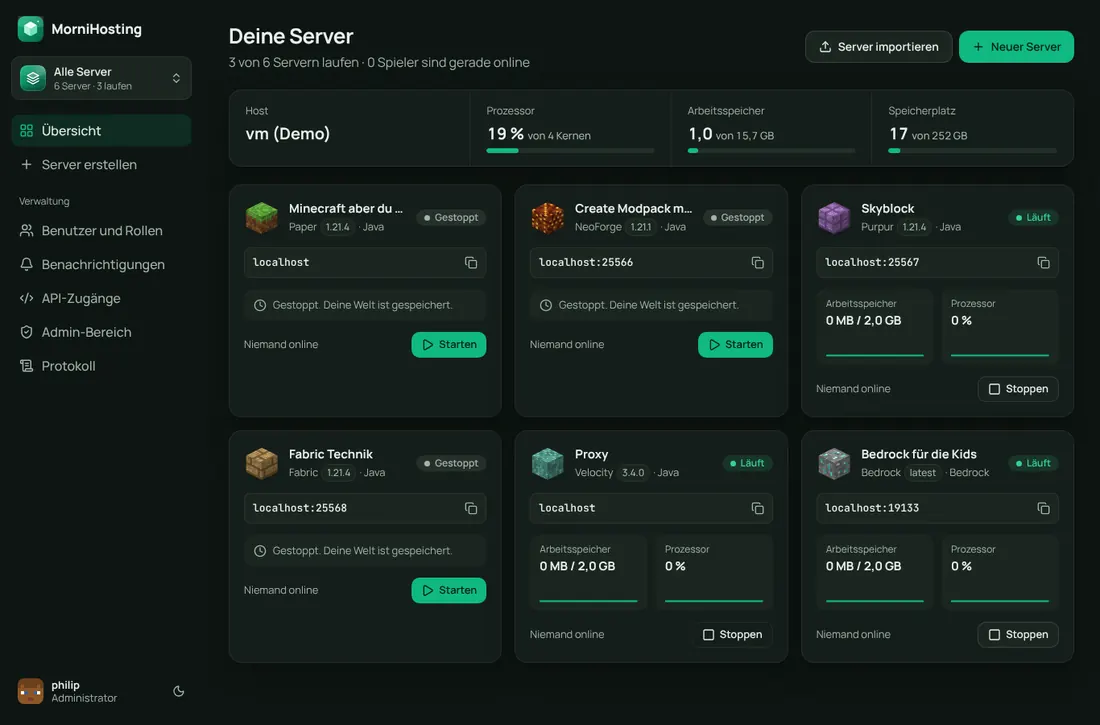
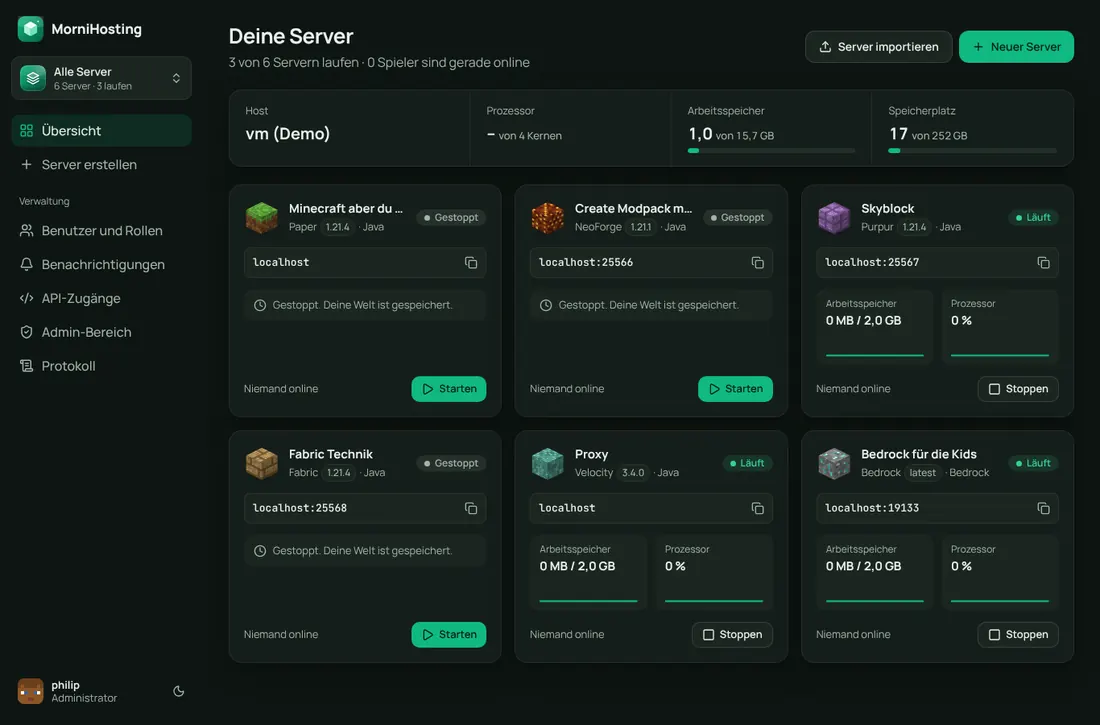
Spielauswahl mit großen Bildkarten, gleich große Symbole, Karten bündig
Die Spiele sind jetzt große Bildkarten mit „Minecraft Java Edition“,
„Minecraft Bedrock Edition“ und „Minecraft Geyser“ (mit Geyser-Logo),
auf der Startseite und bei der Bestellung gleich. Software-Symbole und
Add-on-Bilder haben einheitliche Größen und Kacheln. In der Übersicht
liegt die Fußzeile jeder Server-Karte unten, damit gestoppte und laufende
Server in einer Reihe bündig sind. Im dunklen und hellen Modus geprüft.

Claude-Session: https://claude.ai/code/session_017GS6h1DfXC5pMpvDVvLLt3

Verfasst mit Claude 🤖

diff --git a/apps/web/src/features/servers/create/CreateServerPage.tsx b/apps/web/src/features/servers/create/CreateServerPage.tsx
@@ -34,7 +34,8 @@ import { Field } from '@/components/ui/label';
 import { Checkbox, Skeleton, Slider } from '@/components/ui/misc';
 import { Select, SelectContent, SelectItem, SelectTrigger, SelectValue } from '@/components/ui/select';
 import { Switch } from '@/components/ui/switch';
-import { Badge, Gem, GameScene, type GemTier } from '@/components/art';
+import { Badge, Gem, type GemTier } from '@/components/art';
+import { GameCard } from '@/components/game-card';
 import { blockOf, McBlock } from '@/components/mc-block';
 import { hasProjectLogo, ProjectLogo } from '@/components/project-logo';
 import { api } from '@/lib/api';
@@ -151,26 +152,7 @@ function GamePicker({ onPick }: { onPick: (game: Game) => void }): ReactElement 
       </div>
       <div className="grid gap-4 sm:grid-cols-3">
         {GAMES.map((g) => (
-          <button
-            key={g}
-            type="button"
-            onClick={() => onPick(g)}
-            className="group grid overflow-hidden rounded-[16px] border border-border bg-card text-left transition hover:-translate-y-0.5 hover:border-primary hover:shadow-lg"
-          >
-            <GameScene game={g} className="h-32" />
-            <span className="grid gap-4 p-5">
-              <span>
-                <span className="block text-lg font-bold">{t(`landing.games.${g}.title`)}</span>
-                <span className="block text-sm text-muted-foreground">{t(`landing.games.${g}.text`)}</span>
-              </span>
-              <span className="flex items-center justify-between text-sm font-semibold">
-                {t('landing.free')}
-                <span className="rounded-[10px] bg-primary px-3 py-1.5 text-primary-foreground">
-                  {t('landing.start')}
-                </span>
-              </span>
-            </span>
-          </button>
+          <GameCard key={g} game={g} onStart={() => onPick(g)} />
         ))}
       </div>
       <Button asChild variant="ghost" className="justify-self-start">
@@ -183,11 +165,11 @@ function GamePicker({ onPick }: { onPick: (game: Game) => void }): ReactElement 
   );
 }
 
-/** A small tile for an add-on without its own logo. */
-function AddOnMark({ icon: Icon }: { icon: typeof Archive }): ReactElement {
+/** Every add-on shows its picture in the same tile: the project's logo, or a symbol when it has none. */
+function AddOnTile({ children }: { children: ReactNode }): ReactElement {
   return (
-    <span className="grid size-9 shrink-0 place-items-center rounded-[10px] bg-gradient-to-br from-emerald-400 to-emerald-700 text-white shadow-sm">
-      <Icon className="size-5" aria-hidden />
+    <span className="grid size-11 shrink-0 place-items-center rounded-[12px] border border-border bg-background shadow-sm">
+      {children}
     </span>
   );
 }
@@ -195,7 +177,12 @@ function AddOnMark({ icon: Icon }: { icon: typeof Archive }): ReactElement {
 /** The software's own logo where its project allows it (Paper, Velocity), otherwise its Minecraft block. */
 function SoftwareIcon({ id }: { id: SoftwareId }): ReactElement {
   const block = <McBlock kind={blockOf(id)} className="size-6" />;
-  return hasProjectLogo(id) ? <ProjectLogo project={id} className="size-5" fallback={block} /> : block;
+  // Same box for every software, so logos and blocks line up.
+  return (
+    <span className="grid size-6 shrink-0 place-items-center">
+      {hasProjectLogo(id) ? <ProjectLogo project={id} className="size-5" fallback={block} /> : block}
+    </span>
+  );
 }
 
 function AddOn({
@@ -613,11 +600,13 @@ export function CreateServerPage(): ReactElement {
             {edition === 'java' ? (
               <AddOn
                 icon={
-                  <ProjectLogo
-                    project="geyser"
-                    className="size-9 rounded-[8px]"
-                    fallback={<Badge glyph="crossplay" className="size-9" />}
-                  />
+                  <AddOnTile>
+                    <ProjectLogo
+                      project="geyser"
+                      className="size-7 rounded-[6px]"
+                      fallback={<Badge glyph="crossplay" className="size-7" />}
+                    />
+                  </AddOnTile>
                 }
                 title={t('order.geyser')}
                 text={geyserPossible ? t('order.geyserText') : t('order.notForSoftware')}
@@ -629,11 +618,13 @@ export function CreateServerPage(): ReactElement {
             ) : null}
             <AddOn
               icon={
-                <ProjectLogo
-                  project="voicechat"
-                  className="size-9 rounded-[8px]"
-                  fallback={<AddOnMark icon={Mic} />}
-                />
+                <AddOnTile>
+                  <ProjectLogo
+                    project="voicechat"
+                    className="size-7 rounded-[6px]"
+                    fallback={<Mic className="size-5 text-primary" aria-hidden />}
+                  />
+                </AddOnTile>
               }
               title={t('order.voice')}
               text={voicePossible ? t('order.voiceText') : t('order.notForSoftware')}
@@ -642,7 +633,11 @@ export function CreateServerPage(): ReactElement {
               onChange={(on) => setAddOns({ ...addOns, voice: on })}
             />
             <AddOn
-              icon={<AddOnMark icon={Archive} />}
+              icon={
+                <AddOnTile>
+                  <Archive className="size-5 text-primary" aria-hidden />
+                </AddOnTile>
+              }
               title={t('order.backups')}
               text={t('order.backupsText', { time: BACKUP_TIME })}
               on={addOns.backups}

diff --git a/apps/web/src/components/game-card.tsx b/apps/web/src/components/game-card.tsx
@@ -1,0 +1,51 @@
+import type { ReactElement } from 'react';
+import { useTranslation } from 'react-i18next';
+import { Badge, GameScene, type GameKind } from './art';
+import { ProjectLogo } from './project-logo';
+
+/**
+ * A game as a big picture card, like a hoster's game list: the scene fills the card, the name sits large on top
+ * ("Minecraft" small, "Java Edition" big), price and button below. Used on the start page and when ordering.
+ */
+export function GameCard({ game, onStart }: { game: GameKind; onStart: () => void }): ReactElement {
+  const { t } = useTranslation();
+  return (
+    <button
+      type="button"
+      onClick={onStart}
+      className="group grid grid-rows-[auto_1fr] overflow-hidden rounded-[18px] border border-border bg-card text-left shadow-card transition hover:-translate-y-1 hover:border-primary hover:shadow-xl"
+    >
+      <span className="relative block h-48 overflow-hidden">
+        <GameScene game={game} className="absolute inset-0 h-full -translate-y-3 scale-110" />
+        <span
+          aria-hidden
+          className="absolute inset-0 bg-gradient-to-t from-black/85 via-black/15 to-transparent"
+        />
+        <span className="absolute inset-x-5 bottom-3.5 grid text-white">
+          <span className="flex items-center gap-2 text-[12px] font-bold uppercase tracking-[0.24em] text-white/80">
+            Minecraft
+            {game === 'crossplay' ? (
+              <ProjectLogo
+                project="geyser"
+                className="size-5 rounded-[5px]"
+                fallback={<Badge glyph="crossplay" className="size-5" />}
+              />
+            ) : null}
+          </span>
+          <span className="text-[28px] font-extrabold leading-tight tracking-[-0.02em] drop-shadow-lg">
+            {t(`landing.games.${game}.edition`)}
+          </span>
+        </span>
+      </span>
+      <span className="grid content-between gap-4 p-5">
+        <span className="text-sm text-muted-foreground">{t(`landing.games.${game}.text`)}</span>
+        <span className="flex items-center justify-between text-sm font-semibold">
+          {t('landing.free')}
+          <span className="rounded-[10px] bg-primary px-3.5 py-2 text-primary-foreground transition group-hover:brightness-110">
+            {t('landing.start')}
+          </span>
+        </span>
+      </span>
+    </button>
+  );
+}

diff --git a/apps/web/src/features/auth/LandingLayout.tsx b/apps/web/src/features/auth/LandingLayout.tsx
@@ -3,7 +3,7 @@ import { Archive, Blocks, Globe, LogIn, Plus, Puzzle, Rocket, ShieldCheck, Uploa
 import type { ReactElement, ReactNode } from 'react';
 import { useTranslation } from 'react-i18next';
 import { useLocation, useNavigate } from 'react-router';
-import { GameScene } from '@/components/art';
+import { GameCard } from '@/components/game-card';
 import { BrandMark } from '@/components/server-visuals';
 import { Button } from '@/components/ui/button';
 import { statusQuery } from './session';
@@ -117,22 +117,7 @@ export function LandingLayout({ children }: { children: ReactNode }): ReactEleme
         </div>
         <div className="grid gap-4 sm:grid-cols-3">
           {GAMES.map((g) => (
-            <article
-              key={g}
-              className="group grid overflow-hidden rounded-[16px] border border-border bg-card transition hover:-translate-y-0.5 hover:border-primary hover:shadow-lg"
-            >
-              <GameScene game={g} className="h-36" />
-              <div className="grid gap-4 p-5">
-                <div>
-                  <h3 className="text-lg font-bold">{t(`landing.games.${g}.title`)}</h3>
-                  <p className="text-sm text-muted-foreground">{t(`landing.games.${g}.text`)}</p>
-                </div>
-                <div className="flex items-center justify-between gap-3">
-                  <span className="text-sm font-semibold">{t('landing.free')}</span>
-                  <Button onClick={() => focusLogin(`/servers/new?game=${g}`)}>{t('landing.start')}</Button>
-                </div>
-              </div>
-            </article>
+            <GameCard key={g} game={g} onStart={() => focusLogin(`/servers/new?game=${g}`)} />
           ))}
         </div>
       </section>

diff --git a/docs/progress.html b/docs/progress.html
@@ -253,7 +253,7 @@ footer { color: var(--muted); font-size: 13px; }
     {
       "title": "Minecraft-Blöcke, echte Logos, Fehler behoben",
       "status": "fertig",
-      "detail": "Server-Icons als 3D-Minecraft-Blöcke (selbst gezeichnet), Paper-/Velocity-Logo von PaperMC, Geyser- und Voice-Chat-Logo von Modrinth (nur geladen, nicht kopiert), neues Tab-Bild. Behoben: lange Servernamen sprengten die Karte, schwarze Konsolen-Farben unsichtbar, MOTD-Vorschau mit dunklen Farben, Netherite-Stein fast schwarz. Update-Karte neu gestaltet."
+      "detail": "Server-Icons als 3D-Minecraft-Blöcke (selbst gezeichnet), Paper-/Velocity-Logo von PaperMC, Geyser- und Voice-Chat-Logo von Modrinth (nur geladen, nicht kopiert), neues Tab-Bild. Behoben: lange Servernamen sprengten die Karte, schwarze Konsolen-Farben unsichtbar, MOTD-Vorschau mit dunklen Farben, Netherite-Stein fast schwarz. Update-Karte neu gestaltet. Spielauswahl wie bei ggdehosting: große Bildkarten mit „Minecraft Java Edition“, „Minecraft Bedrock Edition“, „Minecraft Geyser“ (mit Geyser-Logo); gleich große Symbole und Kacheln, Fußzeilen der Server-Karten auf einer Linie; dunkel und hell geprüft."
     }
   ],
   "shots": [
@@ -264,7 +264,7 @@ footer { color: var(--muted); font-size: 13px; }
     },
     {
       "img": "progress/p15-games.webp",
-      "caption": "Spiele-Karten mit Grasblock, Diamanterz und Geyser-Logo",
+      "caption": "Spielauswahl wie bei ggdehosting · oben dunkler, unten heller Modus",
       "time": "2026-10-30T15:05:00+01:00"
     },
     {

diff --git a/apps/web/src/features/dashboard/ServerCard.tsx b/apps/web/src/features/dashboard/ServerCard.tsx
@@ -155,7 +155,7 @@ export function ServerCard({ server }: { server: ServerSummary }): ReactElement 
   const nobody = live.state === 'starting' ? t('card.nobodyYet') : t('card.nobodyOnline');
 
   return (
-    <Card className="grid content-start gap-3.5 p-[18px]">
+    <Card className="grid grid-rows-[auto_auto_auto_1fr] gap-3.5 p-[18px]">
       <div className="flex items-center gap-3">
         <ServerIcon id={server.id} software={server.software} hasIcon={server.hasIcon} />
         <Link to={`/servers/${server.id}`} className="min-w-0 flex-1 after:absolute">
@@ -177,7 +177,8 @@ export function ServerCard({ server }: { server: ServerSummary }): ReactElement 
         />
       </div>
       <Body server={server} />
-      <div className="flex items-center gap-2">
+      {/* The footer sits at the bottom, so stopped and running cards in a row line up. */}
+      <div className="flex items-center gap-2 self-end">
         {players.length ? (
           <span className="flex items-center">
             {players.slice(0, MAX_HEADS).map((name, i) => (

diff --git a/apps/web/src/components/art.tsx b/apps/web/src/components/art.tsx
@@ -1,7 +1,6 @@
 import { useId, type ReactElement, type ReactNode } from 'react';
 import { hashString } from '@/lib/pixel';
 import { McBlock } from './mc-block';
-import { ProjectLogo } from './project-logo';
 import { cn } from '@/lib/utils';
 
 /**
@@ -448,16 +447,6 @@ export function GameScene({ game, className }: { game: GameKind; className?: str
         <circle cx="80" cy="40" r="46" fill={`url(#${id}glow)`} />
         <g className="art-float">{scene.art}</g>
       </svg>
-      {game === 'crossplay' ? (
-        <span className="absolute bottom-2 right-2 flex items-center gap-1.5 rounded-full bg-black/45 py-1 pl-1 pr-2.5 text-[11px] font-semibold text-white backdrop-blur">
-          <ProjectLogo
-            project="geyser"
-            className="size-5 rounded-full"
-            fallback={<Badge glyph="crossplay" className="size-5" />}
-          />
-          Geyser
-        </span>
-      ) : null}
     </div>
   );
 }

diff --git a/e2e/create-server.spec.ts b/e2e/create-server.spec.ts
@@ -20,7 +20,7 @@ test('order a Paper server like at a hoster and see it running', async ({ page }
     }),
   );
   await page.goto('/servers/new');
-  await page.getByRole('button', { name: 'Minecraft Java' }).click();
+  await page.getByRole('button', { name: 'Java Edition' }).click();
   await page.getByRole('button', { name: '4 GB RAM' }).click();
   await page.getByRole('button', { name: PAPER_CHOICE }).click();
   await expect(page.getByText('1.21.4').first()).toBeVisible();
